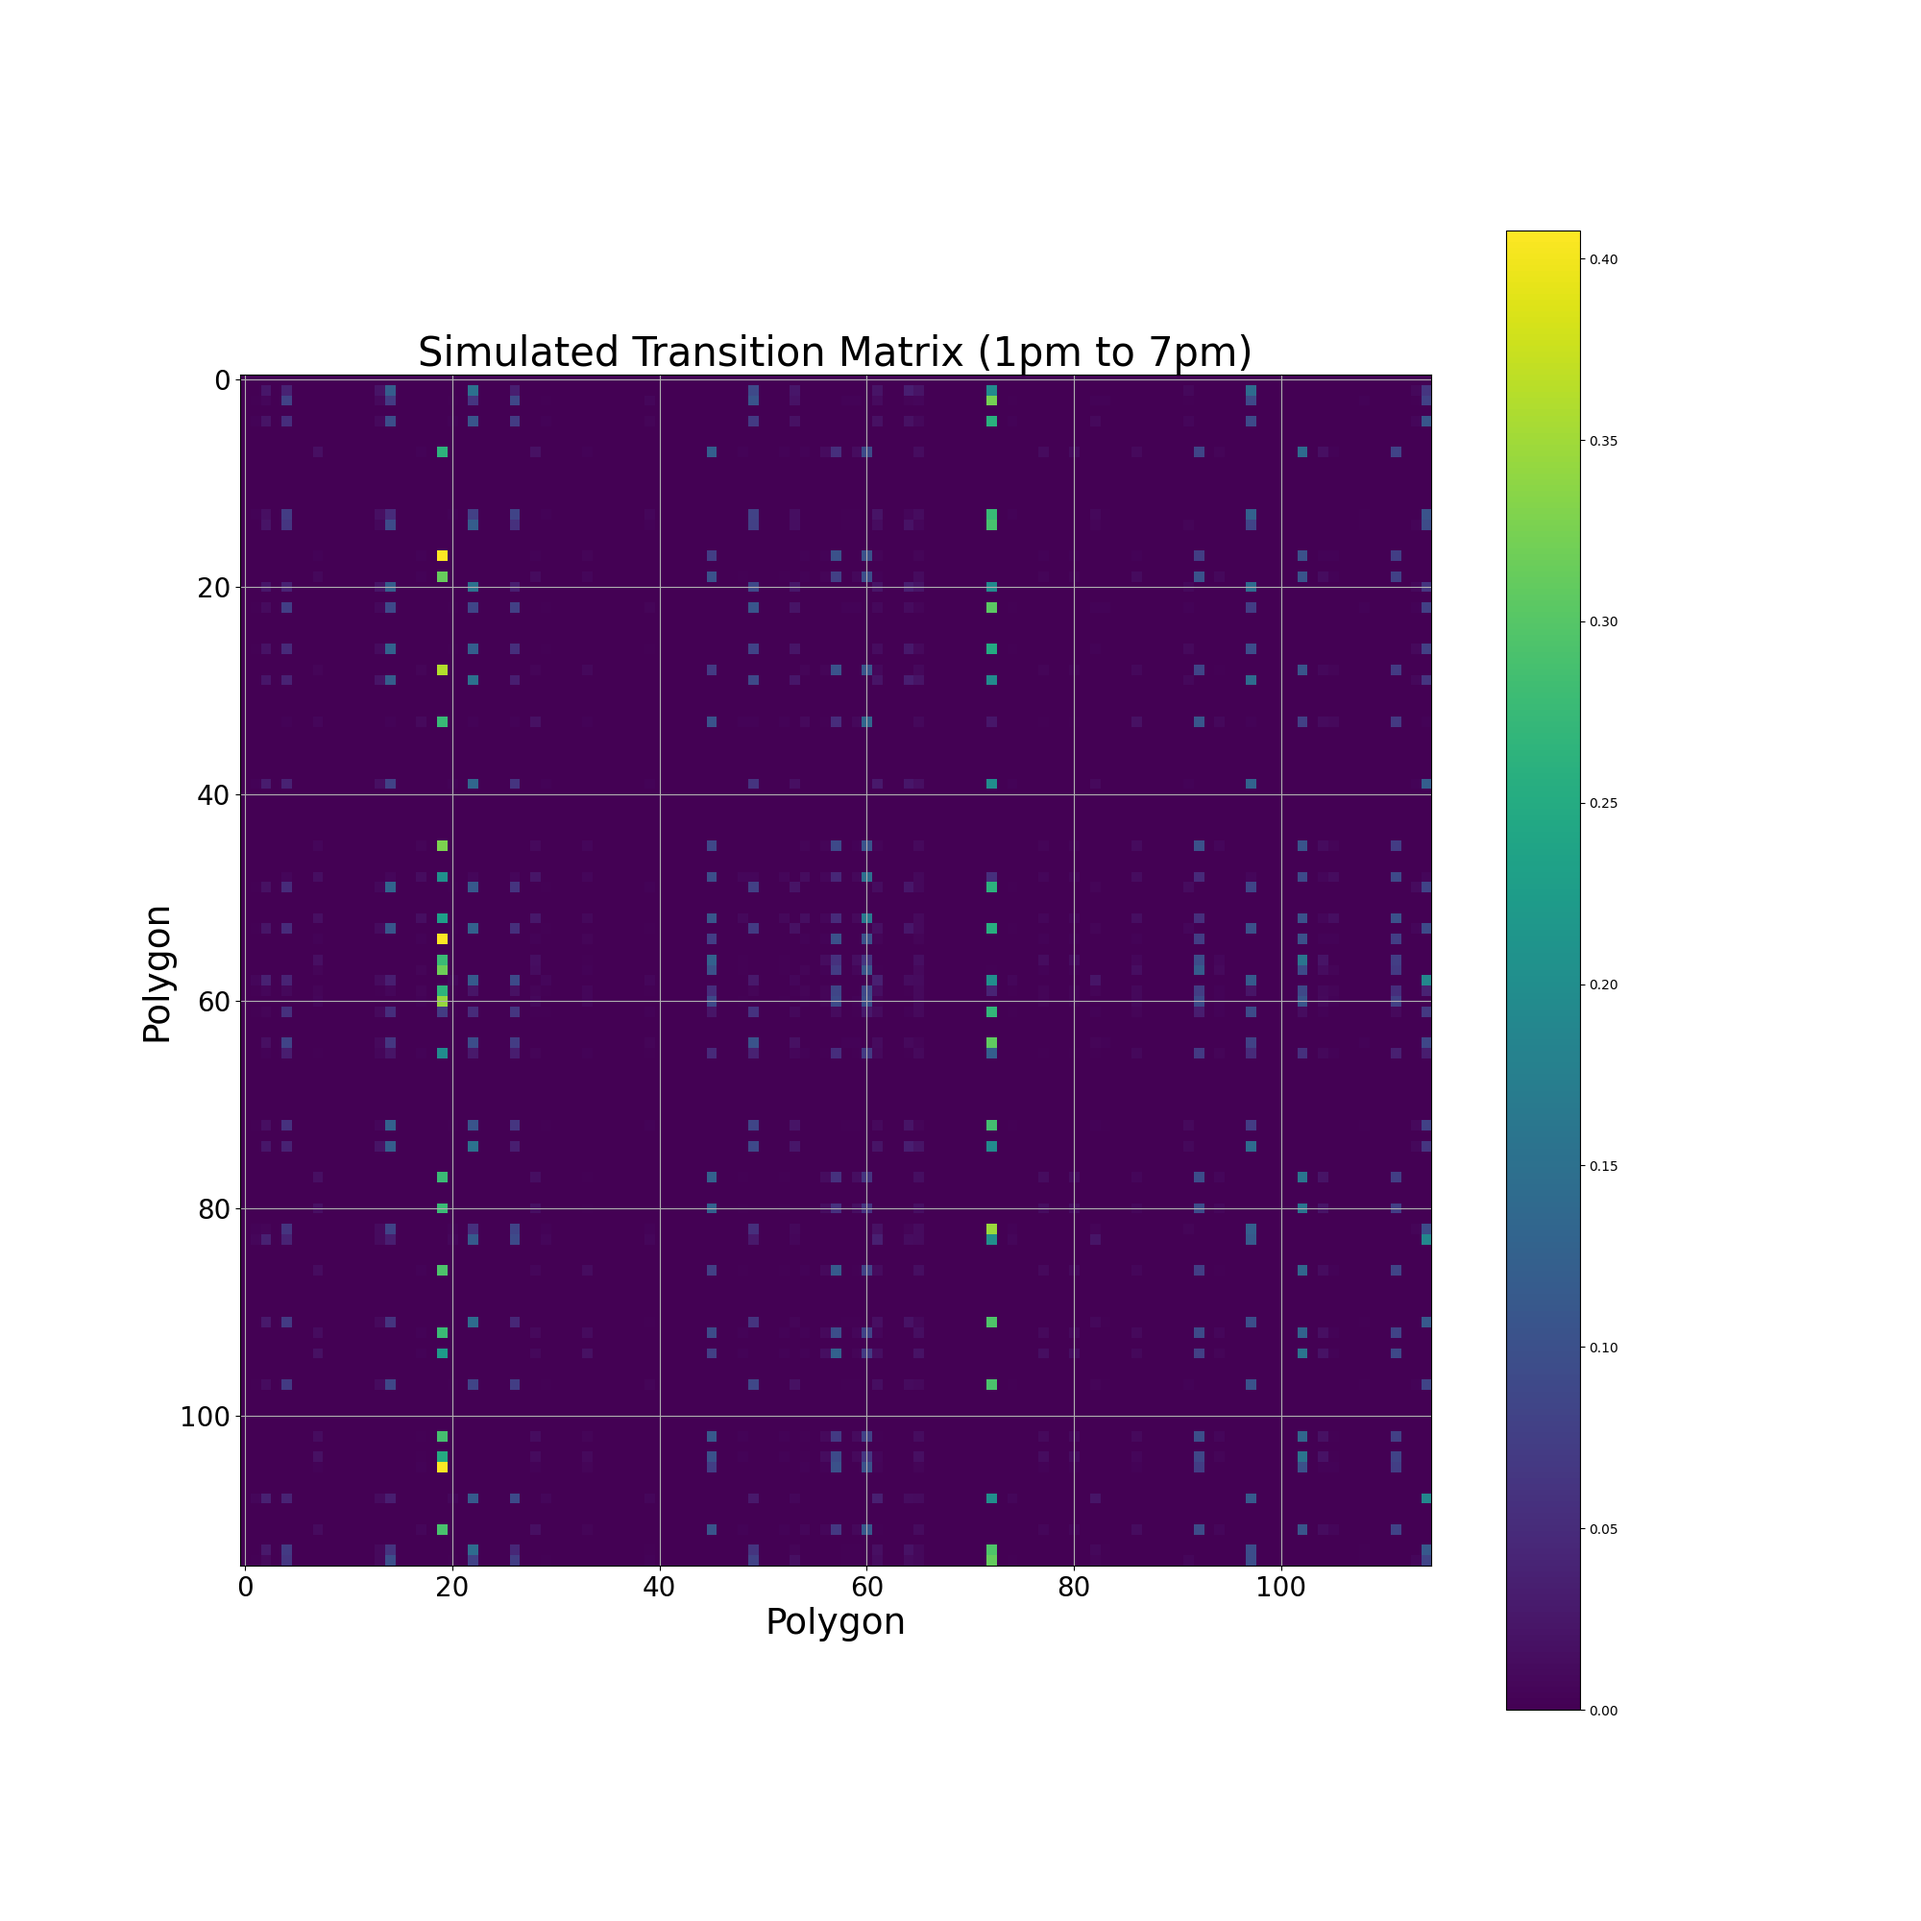
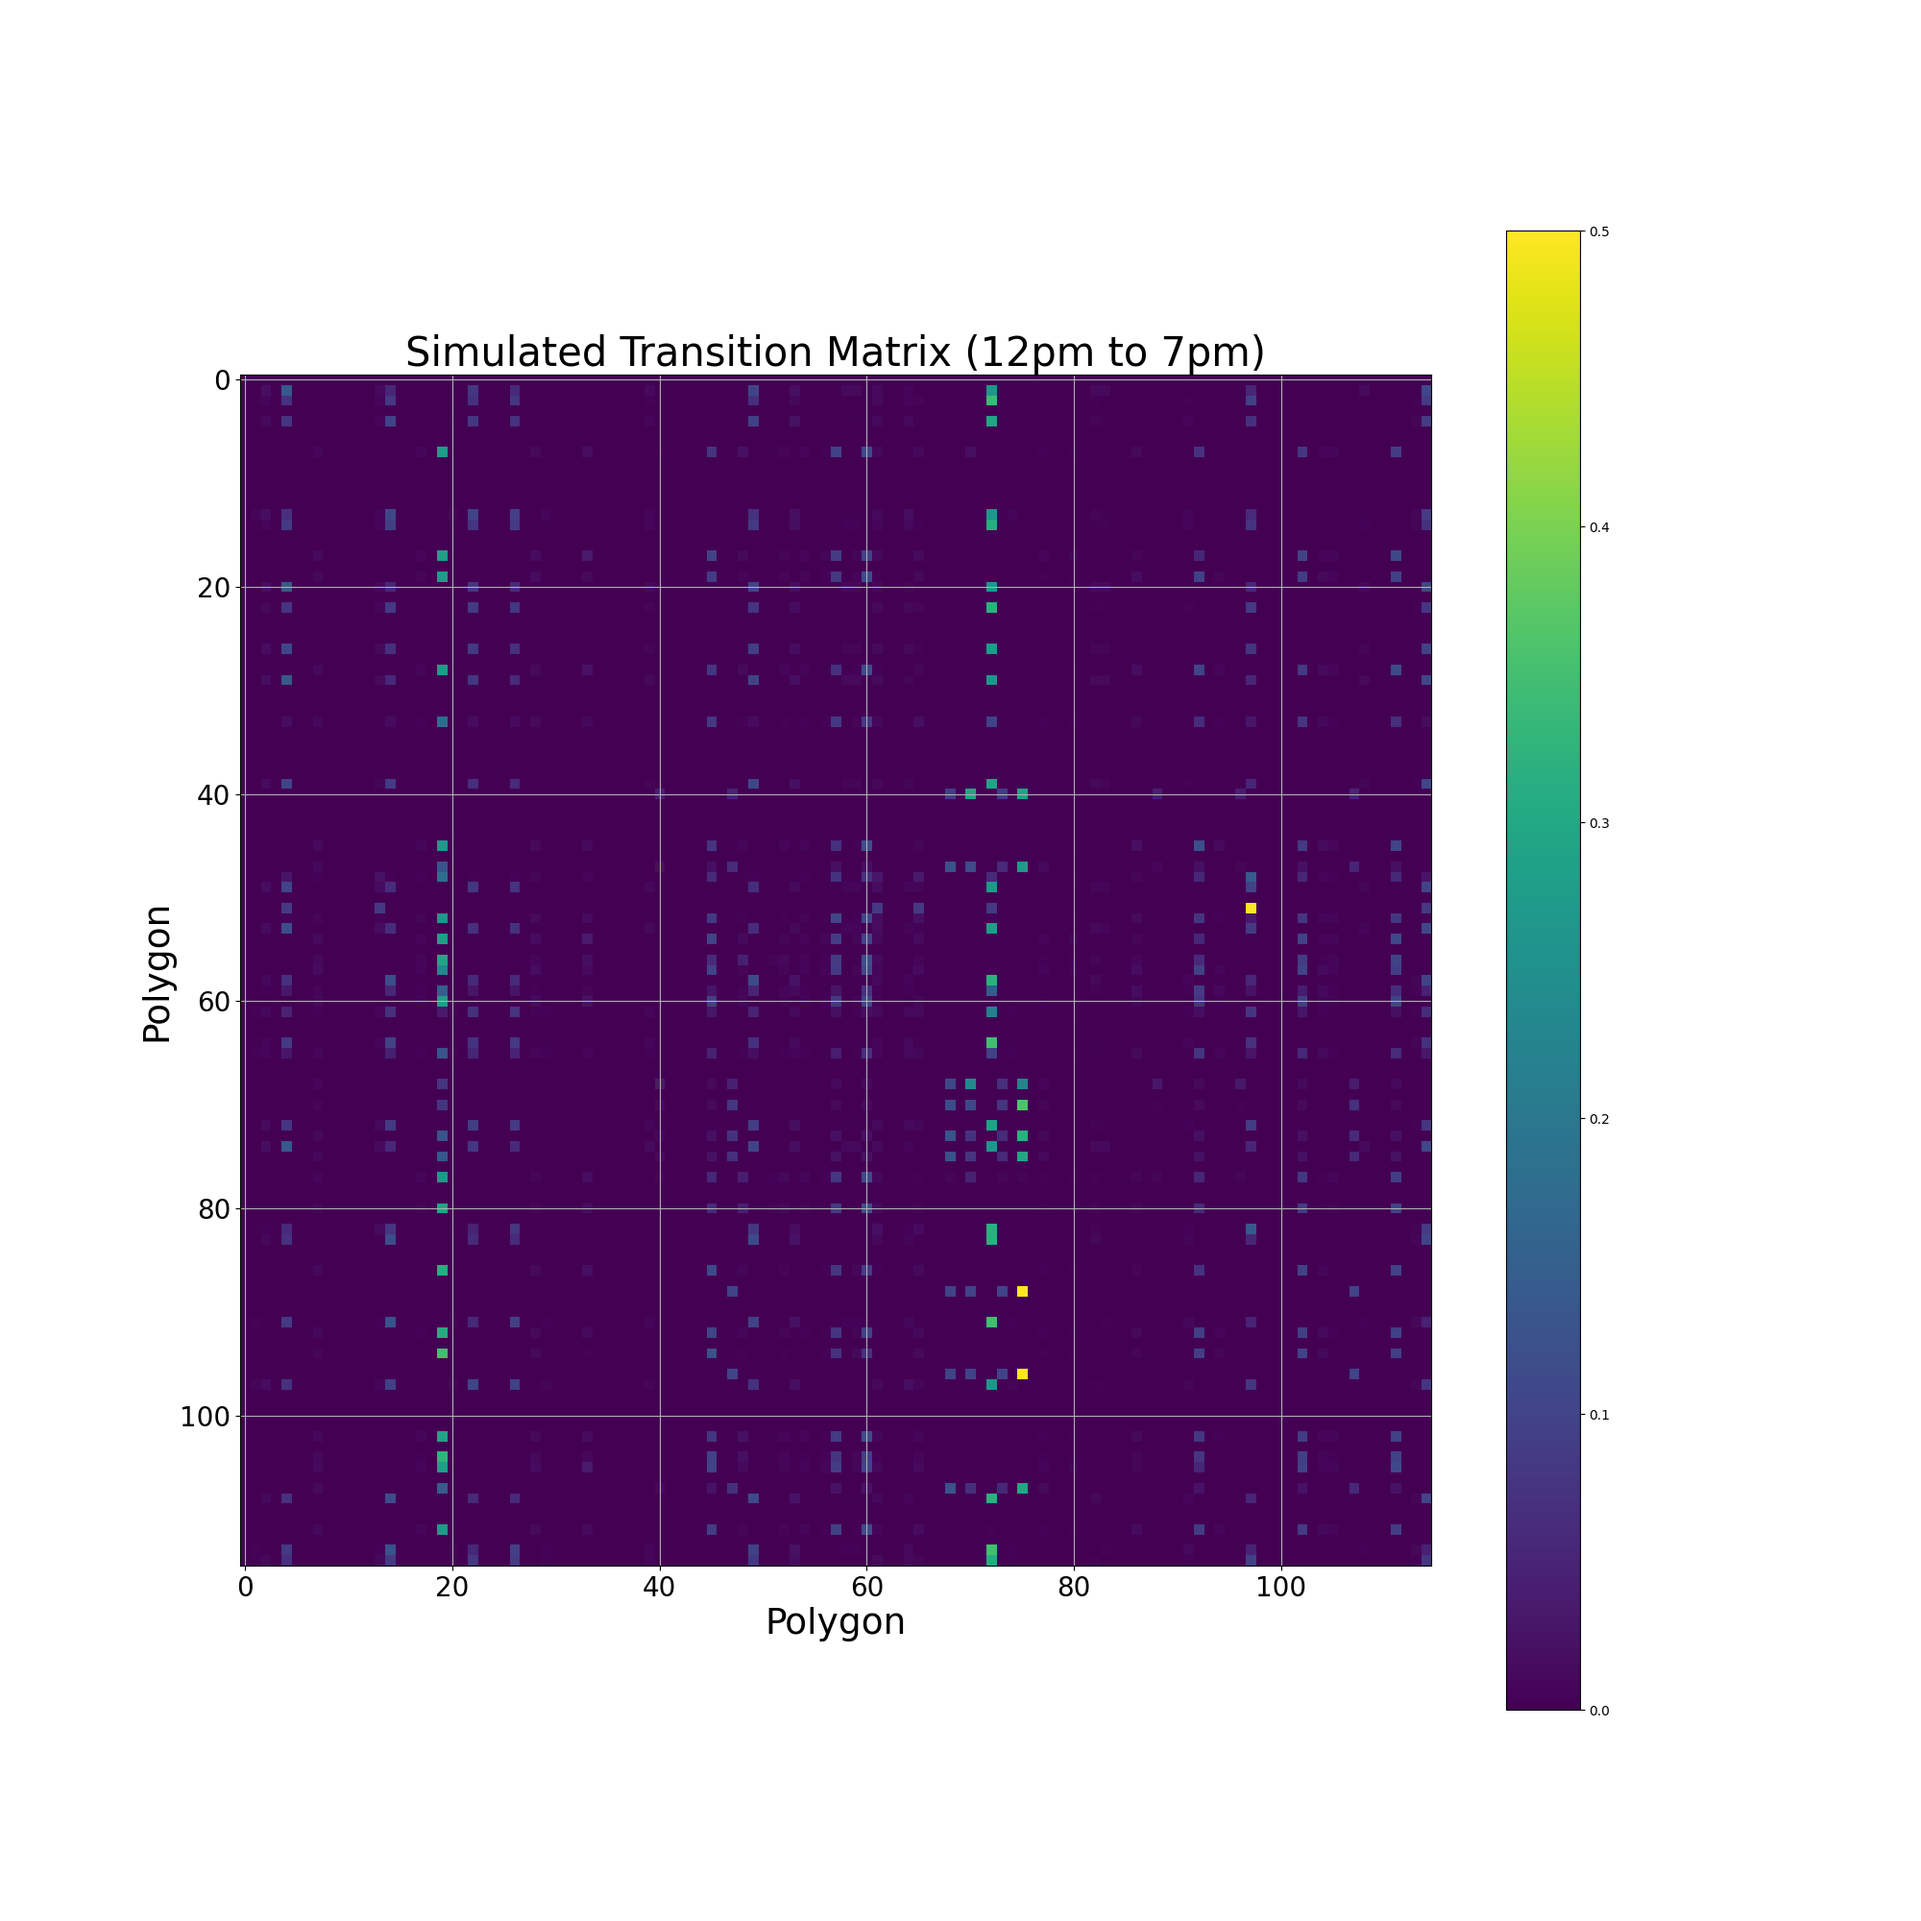
update

diff --git a/cdr_trajectories/example.py b/cdr_trajectories/example.py
@@ -73,7 +73,7 @@ probabilistic_trajectories = trajectories_oneRing
 ### 1 - ORIGIN-DESTINATION MATRICES:
 
 od = OD(probabilistic_trajectories).make_od()
-plot_dense(prepare_for_plot(od, 'updates'), 'OD.png', 'Origin-Destination Matrix', 'outputs/od')
+plot_dense(prepare_for_plot(od, 'updates'), 'OD.png', 'Origin-Destination Matrix: h = 2 hours', 'outputs/od')
 
 
 
@@ -163,29 +163,29 @@ plot_result(res, 'SD.png', 'Mobility Trend', 'outputs/simulation')
 ## 3.2 - Simulate discrete markov chain:
 
 # Get initial state for each user
-# window = Window.partitionBy(['user_id']).orderBy(F.lit('A'))
+window = Window.partitionBy(['user_id']).orderBy(F.lit('A'))
 
-# init_state = time_inhomogeneous_prob_traj_1\
-#              .withColumn('i', F.row_number().over(window))\
-#              .filter(F.col('i') == 1).select('user_id', 'voronoi_id')
+init_state = time_inhomogeneous_prob_traj_1\
+             .withColumn('i', F.row_number().over(window))\
+             .filter(F.col('i') == 1).select('user_id', 'voronoi_id')
 
-# seed(0)
-# sim_traj = spark.createDataFrame(simulate(init_state, matrix_1, 150, matrix_2, 50))
+seed(0)
+sim_traj = spark.createDataFrame(simulate(init_state, matrix_1, 150, matrix_2, 50))
 
-# sim_traj = sim_traj.withColumn('simulated_traj', F.explode(F.split(F.col('simulated_traj'), ',')))\
-#                    .withColumn('simulated_traj', F.regexp_replace('simulated_traj', '\\[', ''))\
-#                    .withColumn('simulated_traj', F.regexp_replace('simulated_traj', '\\]', ''))\
-#                    .withColumn('simulated_traj', F.col('simulated_traj').cast(IntegerType()))\
-#                    .withColumn('i', F.row_number().over(window))
+sim_traj = sim_traj.withColumn('simulated_traj', F.explode(F.split(F.col('simulated_traj'), ',')))\
+                   .withColumn('simulated_traj', F.regexp_replace('simulated_traj', '\\[', ''))\
+                   .withColumn('simulated_traj', F.regexp_replace('simulated_traj', '\\]', ''))\
+                   .withColumn('simulated_traj', F.col('simulated_traj').cast(IntegerType()))\
+                   .withColumn('i', F.row_number().over(window))
 
-# simulation = Simulation(sim_traj, oneRing_data).process()
-# prepare_for_sim_plot = pd.DataFrame(np.vstack(simulation.toPandas()['vector']))
-# plot_sim_result(prepare_for_sim_plot, 'Sim.png', 'Simulation Result', 'outputs/simulation')
+simulation = Simulation(sim_traj, oneRing_data).process()
+prepare_for_sim_plot = pd.DataFrame(np.vstack(simulation.toPandas()['vector']))
+plot_sim_result(prepare_for_sim_plot, 'Sim.png', 'Simulation Result', 'outputs/simulation')
 
 
-# simulation_TM = Simulation(sim_traj, oneRing_data).reformulate_TM()
-# sim_time_tm = TM(simulation_TM).make_sim_tm()
-# plot_dense(prepare_for_plot(sim_time_tm, 'updates'), 'SIM_TI_TM.png', 'Simulated Transition Matrix (1pm to 7pm)', 'outputs/simulation')
+simulation_TM = Simulation(sim_traj, oneRing_data).reformulate_TM()
+sim_time_tm = TM(simulation_TM).make_sim_tm()
+plot_dense(prepare_for_plot(sim_time_tm, 'updates'), 'SIM_TI_TM.png', 'Simulated Transition Matrix (12pm to 7pm)', 'outputs/simulation')
 
 
 
